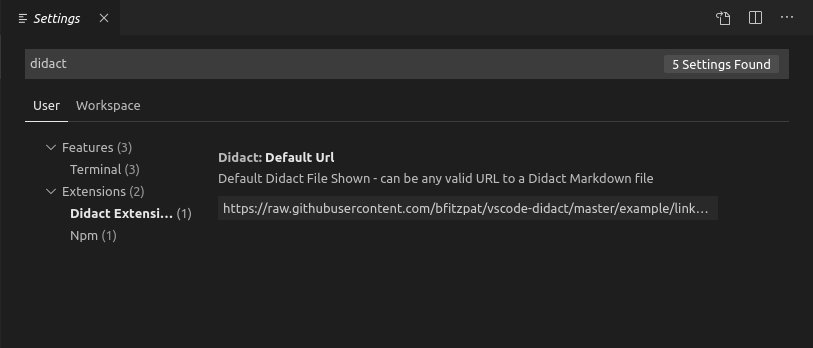
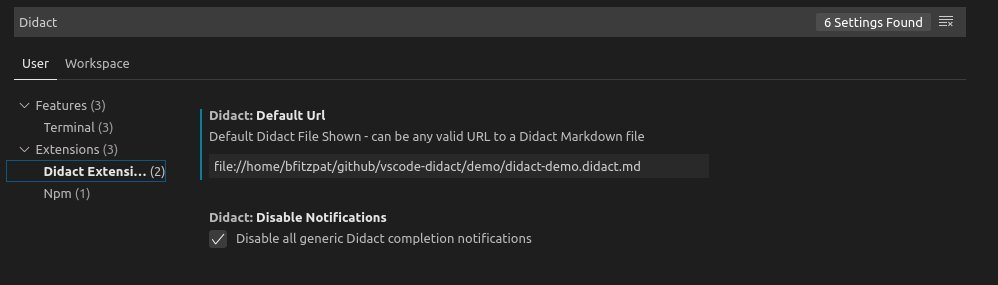
issue #62 - uncluttering command palette and adding more docs

Changed region(s): [[0.0, 0.0, 0.984, 0.7018], [0.1845, 0.814, 0.5535, 0.8702], [0.2153, 0.7298, 0.3998, 0.786]]

diff --git a/examples/commands.reference.md b/examples/commands.reference.md
@@ -1,0 +1,23 @@
+# Didact Commands Reference
+
+| Didact Command ID 	| Description 	| Param 1 	| P2 	| P3 	| Return 	| Documentation 	|
+|------------------------------------------	|--------------------------------------------------------------------------------------------------------------------------------------------------------------------------------------------------------------------------------------------------------------------------------------------	|--------------------------------	|----------------------------------	|-------------------------------	|-------------------------------------------------------------------------------------------	|-------------------------------------------------------------------------------------------------------------------------------------------------	|
+| vscode.didact.cliCommandSuccessful 	| Even simpler command-line check for system capabilities. Takes two parameters - the id of the HTML element to update with the results and the test command (such as mvn --version. If command executes with no errors (return code 0), it returns true. If not, false. 	| requirement: string / required 	| testCommand: string / required 	|  	| true on success, false on failure; result posted as message to update requirement element 	| https://github.com/redhat-developer/vscode-didact/wiki/Available-Commands-in-Didact-and-Elsewhere#vscodedidactclicommandsuccessful 	|
+| vscode.didact.closeNamedTerminal 	| Terminate a named terminal and dispose of it. 	| name : string / required 	|  	|  	| Check Didact output channel 	| https://github.com/redhat-developer/vscode-didact/wiki/Available-Commands-in-Didact-and-Elsewhere#vscodedidactclosenamedterminal 	|
+| vscode.didact.createWorkspaceFolder 	| Creating temporary folder as workspace root. Update named 'requirement' label field with success or failure. 	| requirement: string / optional 	|  	|  	| Check Didact output channel 	| https://github.com/redhat-developer/vscode-didact/wiki/Available-Commands-in-Didact-and-Elsewhere#vscodedidactcreateworkspacefolder 	|
+| vscode.didact.extensionRequirementCheck 	| Simple check to see if the extension Id is installed in the user workspace. 	| requirement: string / required 	| extensionId : string / required 	|  	| true on success, false on failure; result posted as message to update requirement element 	| https://github.com/redhat-developer/vscode-didact/wiki/Available-Commands-in-Didact-and-Elsewhere#vscodedidactextensionrequirementcheck 	|
+| vscode.didact.gatherAllCommands 	| Gathers a list of all commands used in the Didact file. Used for testing purposes only. 	|  	|  	|  	| array any[] 	| https://github.com/redhat-developer/vscode-didact/wiki/Available-Commands-in-Didact-and-Elsewhere#vscodedidactgatherallcommands 	|
+| vscode.didact.gatherAllRequirements 	| Gathers a list of all requirements in the Didact file. Used internally as part of the vscode.didact.validateAllRequirements execution. 	|  	|  	|  	| array any[] 	| https://github.com/redhat-developer/vscode-didact/wiki/Available-Commands-in-Didact-and-Elsewhere#vscodedidactgatherallrequirements 	|
+| vscode.didact.openTutorial 	| Opens the Didact editor with the default didact URI set in the user settings. 	|  	|  	|  	| Check Didact output channel 	| https://github.com/redhat-developer/vscode-didact/wiki/Available-Commands-in-Didact-and-Elsewhere#vscodedidactopentutorial 	|
+| vscode.didact.register 	| Command used to register a new Didact tutorial so that it appears in the Didact Tutorials view. This command is invoked by VS Code Extension code to register tutorials they provide. 	| name : string / required 	| sourceUri : string  / required 	| category : string / optional 	| Check Didact output channel 	| https://github.com/redhat-developer/vscode-didact/wiki/Available-Commands-in-Didact-and-Elsewhere#vscodedidactregister 	|
+| vscode.didact.reload 	| Forces the Didact window to reload with the default Didact file specified in VS Code settings. 	|  	|  	|  	| Check Didact output channel 	| https://github.com/redhat-developer/vscode-didact/wiki/Available-Commands-in-Didact-and-Elsewhere#vscodedidactreload 	|
+| vscode.didact.requirementCheck 	| Simple command-line check for system capabilities. Takes three parameters - the id of the HTML element to update with the results, the test command (such as mvn --version, and a string to search for in the resulting text, such as Apache Maven if the mvn command works successfully). 	| requirement: string / required 	| testCommand: string / required 	| testResult: string / required 	| true on success, false on failure; result posted as message to update requirement element 	| https://github.com/redhat-developer/vscode-didact/wiki/Available-Commands-in-Didact-and-Elsewhere#vscodedidactrequirementcheck 	|
+| vscode.didact.scaffoldProject 	| Create new project in user workspace from json file provided by P1. 	| jsonpath:vscode.Uri / required 	|  	|  	| Check Didact output channel 	| https://github.com/redhat-developer/vscode-didact/wiki/Available-Commands-in-Didact-and-Elsewhere#vscodedidactscaffoldproject 	|
+| vscode.didact.sendNamedTerminalAString 	| Send a text string to a named terminal. If the terminal doesn't exist, create it. Pass text as is. Does not automatically add a NL/CR at the end. 	| name : string / required 	| text: string / required 	|  	| Check Didact output channel 	| https://github.com/redhat-developer/vscode-didact/wiki/Available-Commands-in-Didact-and-Elsewhere#vscodedidactsendnamedterminalastring 	|
+| vscode.didact.sendNamedTerminalCtrlC 	| Send a Ctrl+C key combination to a named terminal to stop a long-running process. 	| name : string / required 	|  	|  	| Check Didact output channel 	| https://github.com/redhat-developer/vscode-didact/wiki/Available-Commands-in-Didact-and-Elsewhere#vscodedidactsendnamedterminalctrlc 	|
+| vscode.didact.startDidact 	| Opens the Didact editor using the markdown or asciidoc file URI passed in. Can be 	| uri:vscode.Uri / optional 	|  	|  	| Check Didact output channel 	| https://github.com/redhat-developer/vscode-didact/wiki/Constructing-Didact-Links#didact-link-formatting-for-opening-didact-files-inside-vs-code 	|
+| vscode.didact.startTerminalWithName 	| Start a named terminal so we have a handle to it. If passed a string, use that as the name for the terminal that can be referenced later. If passed a file URI, pass that as the current working directory. 	| name : string / optional 	| filePath : vscode.Uri / optional 	|  	| Check Didact output channel 	| https://github.com/redhat-developer/vscode-didact/wiki/Available-Commands-in-Didact-and-Elsewhere#vscodedidactstartterminalwithname 	|
+| vscode.didact.validateAllRequirements 	| Gathers all requirements in the Didact file and invokes the requirement checks one at a time. Useful if you have a long list of requirements to check. 	|  	|  	|  	| Check Didact output channel 	| https://github.com/redhat-developer/vscode-didact/wiki/Available-Commands-in-Didact-and-Elsewhere#vscodedidactvalidateallrequirements 	|
+| vscode.didact.view.refresh 	| Refresh the Didact Tutorials view. Called automatically each time vscode.didact.register is called. 	|  	|  	|  	| No output 	| https://github.com/redhat-developer/vscode-didact/wiki/Available-Commands-in-Didact-and-Elsewhere#vscodedidactviewrefresh 	|
+| vscode.didact.view.tutorial.open 	| Menu command used when the user right-clicks on a tutorial in the Didact Tutorials view to Start Didact Tutorial. 	| node: TreeNode / required 	|  	|  	| Check Didact output channel 	| https://github.com/redhat-developer/vscode-didact/wiki/Available-Commands-in-Didact-and-Elsewhere#vscodedidactviewtutorialopen 	|
+| vscode.didact.workspaceFolderExistsCheck 	| Simple check to see if the workspace has at least one root folder. 	| requirement: string / required 	|  	|  	| true on success, false on failure; result posted as message to update requirement element 	| https://github.com/redhat-developer/vscode-didact/wiki/Available-Commands-in-Didact-and-Elsewhere#vscodedidactworkspacefolderexistscheck 	|

diff --git a/README.md b/README.md
@@ -32,11 +32,15 @@ If you right-click on a tutorial (such as "Didact Demo"), you see a `Start Didac
 
 To change the default Didact file, access the settings (`File->Preferences->Settings`), type **Didact** and set the `Didact: Default Url`. This can be any valid URL to a Didact formatted Markdown file, including `http://`, `https://`, or `file://` URLs.
 
+To turn on generic Didact completion notifications (off by default), access the settings (`File->Preferences->Settings`), type **Didact** and set the `Didact: Disable Notifications` checkbox. If unchecked, additional notifications will occur when Didact actions are activated in the IDE.
+
 ![Didact Settings](./images/settings.jpg)
 
 ## Additional Details
 
 Check out the Wiki pages [here](https://github.com/redhat-developer/vscode-didact/wiki/Welcome-to-Didact!) for details about how to use Didact, write your first tutorial, format links, and much more. 
+
+For a list of available commands, check out the [Command Reference](examples/commands.reference.md).
 
 # Next steps
 

diff --git a/create_extension/first-tutorial.didact.md b/create_extension/first-tutorial.didact.md
@@ -32,6 +32,8 @@ Other things that Didact can do:
 * Gather all requirements from tutorial
 * Gather all commands from tutorial
 
+For more about specific Didact commands, check out [the VSCode Didact Commands Reference](https://github.com/redhat-developer/vscode-didact/blob/master/examples/commands.reference.md)
+
 ## Further Information
 
 * For more about Markdown formatting, check out the [Markdown Guide](https://www.markdownguide.org/)
